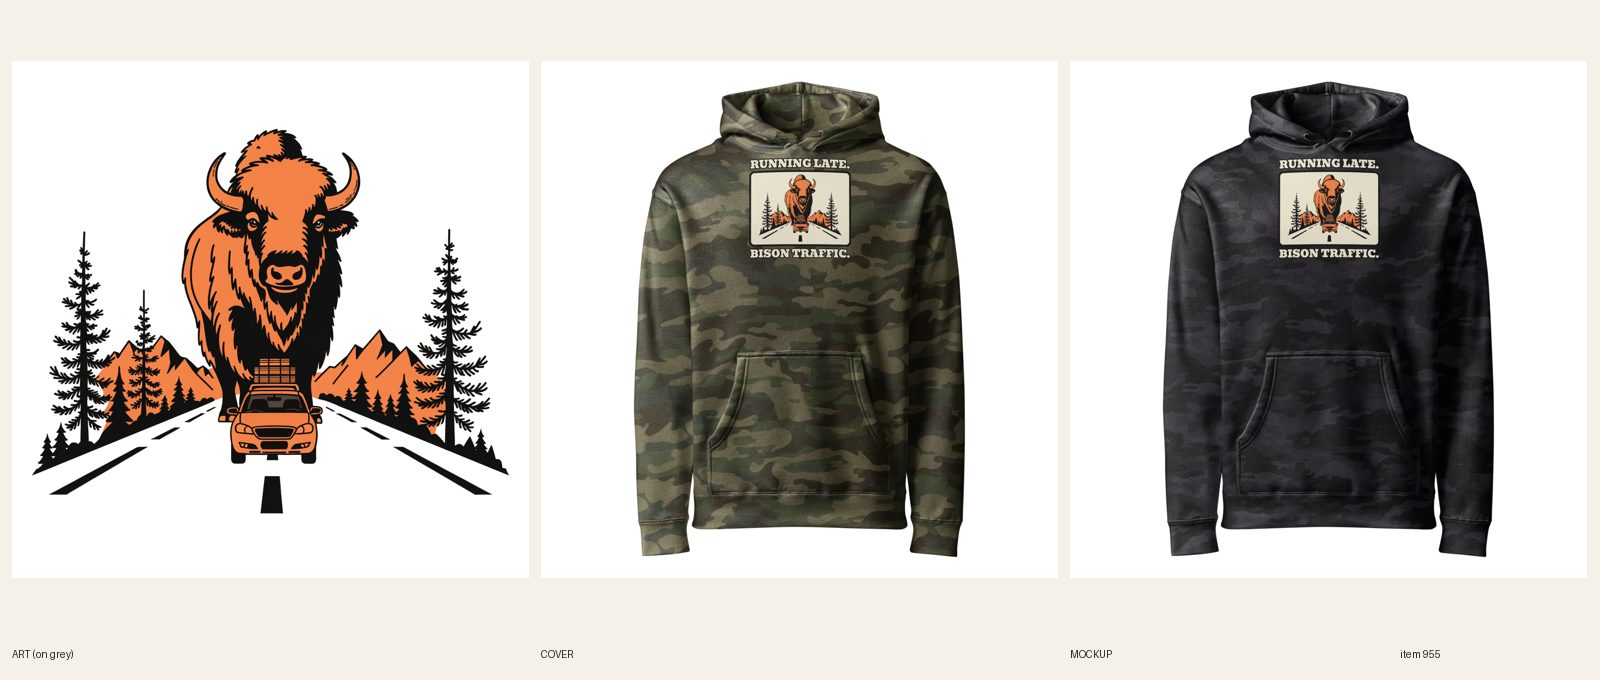
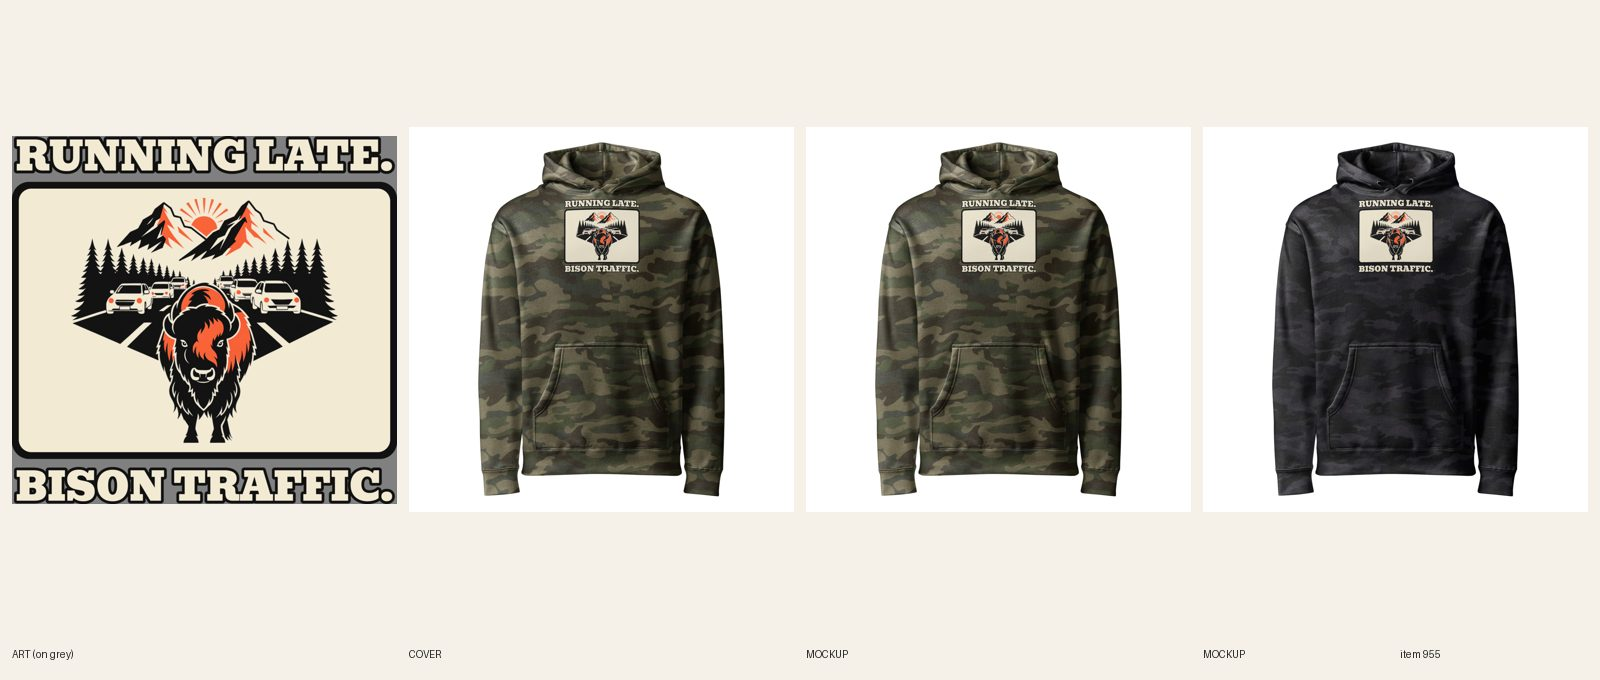
[B] review 955 Running Late Bison Traffic camo hoodie (repaired after duplicate session)
Claude-Session: https://claude.ai/code/session_016Q3H1n6R8PGhKeEtfaky83

diff --git a/docs/pipeline/955-camo-twin-national-park-running-late-bison-traffic.md b/docs/pipeline/955-camo-twin-national-park-running-late-bison-traffic.md
@@ -1,4 +1,4 @@
-status: BUILDING [B] 2026-10-21 16:52
+status: REVIEW
 lane: B
 type: twin
 id: 955
@@ -28,3 +28,4 @@ push: camo
 - 2026-10-21 14:55 UTC director: brief written, READY (camo twin, lane B, push: camo; R11.12 waiver after keyword-gap.py; registry rows claimed).
 - 2026-10-21 16:51 UTC [B]: BUILT NEW as DRAFT (product 15372839977264, IND4000 #1543, Forest Camo + Black Camo x XS-3XL = 14/14 synced on file 1091233302, back logo 1080398177 on 14/14, Printful sync 483725062). Art: one Recraft flat call ($0.04), try 1 kept: huge bison on a two-lane road with a sedan and roof luggage stopped in front, pines and mountains; 3 solid inks (black, blaze orange, white-to-bone), no grey/brown. ONE bone patch with ~0.2 in black outline (b-camo-lockup.py --top, PHR 0.74). 7r: lettering face Bevan (slab); recent lane B faces were Alfa Slab, Bowlby, Oswald, Big Shoulders, Inter Display, so a new one. 7h: 3365 / 3365 px = 100%. 7l: subject 2771 of 3400 px = 81%; type 663 of 3319 px. Canvas 3400x3319, FW 1500 TOP 0. Light file n/a (camo only). Phone-size read of Forest and Black Camo mockups OK. Keyword national park camo hoodie (R11.12 waiver, not measured) under products in the keyword map (top-level check prints []). Price $49.99, no compare-at, category hoodies, tags per brief, SEO title 54 / meta 151, FAQ 5 x 46-54 words (order by Dec 8, free size exchange). Mockup per color attached to its variants, back last. Copy checked vs art (sedan, not wagon). Flat cover (cover: fal-swap; registry rows 1114/1115 stay claimed; the AI cover must show a man and a woman, 7u). Audit PASS (1 warn: no lifestyle cover). design-crops.py not run (draft not on the public feed, it hung). Sheet docs/review/955.jpg. fal $0.04.
 - 2026-10-21 16:52 UTC [B]: STAND-DOWN: a second lane B session (no claim commits, started ~16:35) created the 956-958/962-969 drafts and re-synced 13/14 of #955's variants to its own file 1091235513 and attached its own mockups (media 4-6) while my file 1091233302 (review sheet docs/review/955.jpg) stayed on 3XL Black. The product now mixes two prints; the status is back to BUILDING for whichever session finishes it (one print file on all 14, one set of mockups, delete the other 3 images, re-make the sheet). I stopped to avoid more overwrites.
+- 2026-10-22 21:35 UTC [B]: FINISHED after the duplicate-session mix-up: all 14/14 variants on one print file 1091235513 (k955, Bevan, headline/punch 100%), mockups re-made on that file (FW 1500 TOP 0, Forest + Black front, original back with neck logo kept), the other session's 3 duplicate images deleted, sheet docs/review/955.jpg remade. Printful mockup call with back logo failed 3x (Internal Server Error), front-only worked. cohesion-audit --handle could not run (no browser in the cloud run); director to check. fal $0.

diff --git a/docs/intake-log.md b/docs/intake-log.md
@@ -1,3 +1,4 @@
+2026-10-22 21:36 UTC — [B] REVIEW #955 Unisex National Park – Running Late. Bison Traffic. Camo Hoodie (repaired: one print file 1091235513 on 14/14, mockups re-made, duplicate images removed, punch 100%). Builder run end: 1 item (cleanup of the 16:52 duplicate-session mix-up); #956-958/962-969 drafts from that session left untouched for the director. fal $0.
 2026-10-21 16:52 UTC — [B] Builder run end: DUPLICATE lane B session detected (drafts 956-958/962-969 and #955 re-sync by an unclaimed session); stood down, #955 back to BUILDING with a mixed print (see its log). fal $0.04.
 2026-10-21 16:51 UTC — [B] REVIEW #955 Unisex National Park – Running Late. Bison Traffic. Camo Hoodie (new, IND4000 Forest+Black Camo 14/14 on 1091233302, punch 100%, subject 81%, Bevan). fal $0.04.
 2026-10-21 17:00 UTC — [H] Helper run: Telegram inbox empty (getUpdates returned 0 updates; nothing to consume). Audit 708 live products: 1 ERROR (keyword collision, copy call left for the director), 136 warnings left alone; category check: 0 products missing a category; site freshness: 3 recent LIVE zip twins (#896, #897, #899) all 200; no BUILDING item over 3 hours; lock released.
